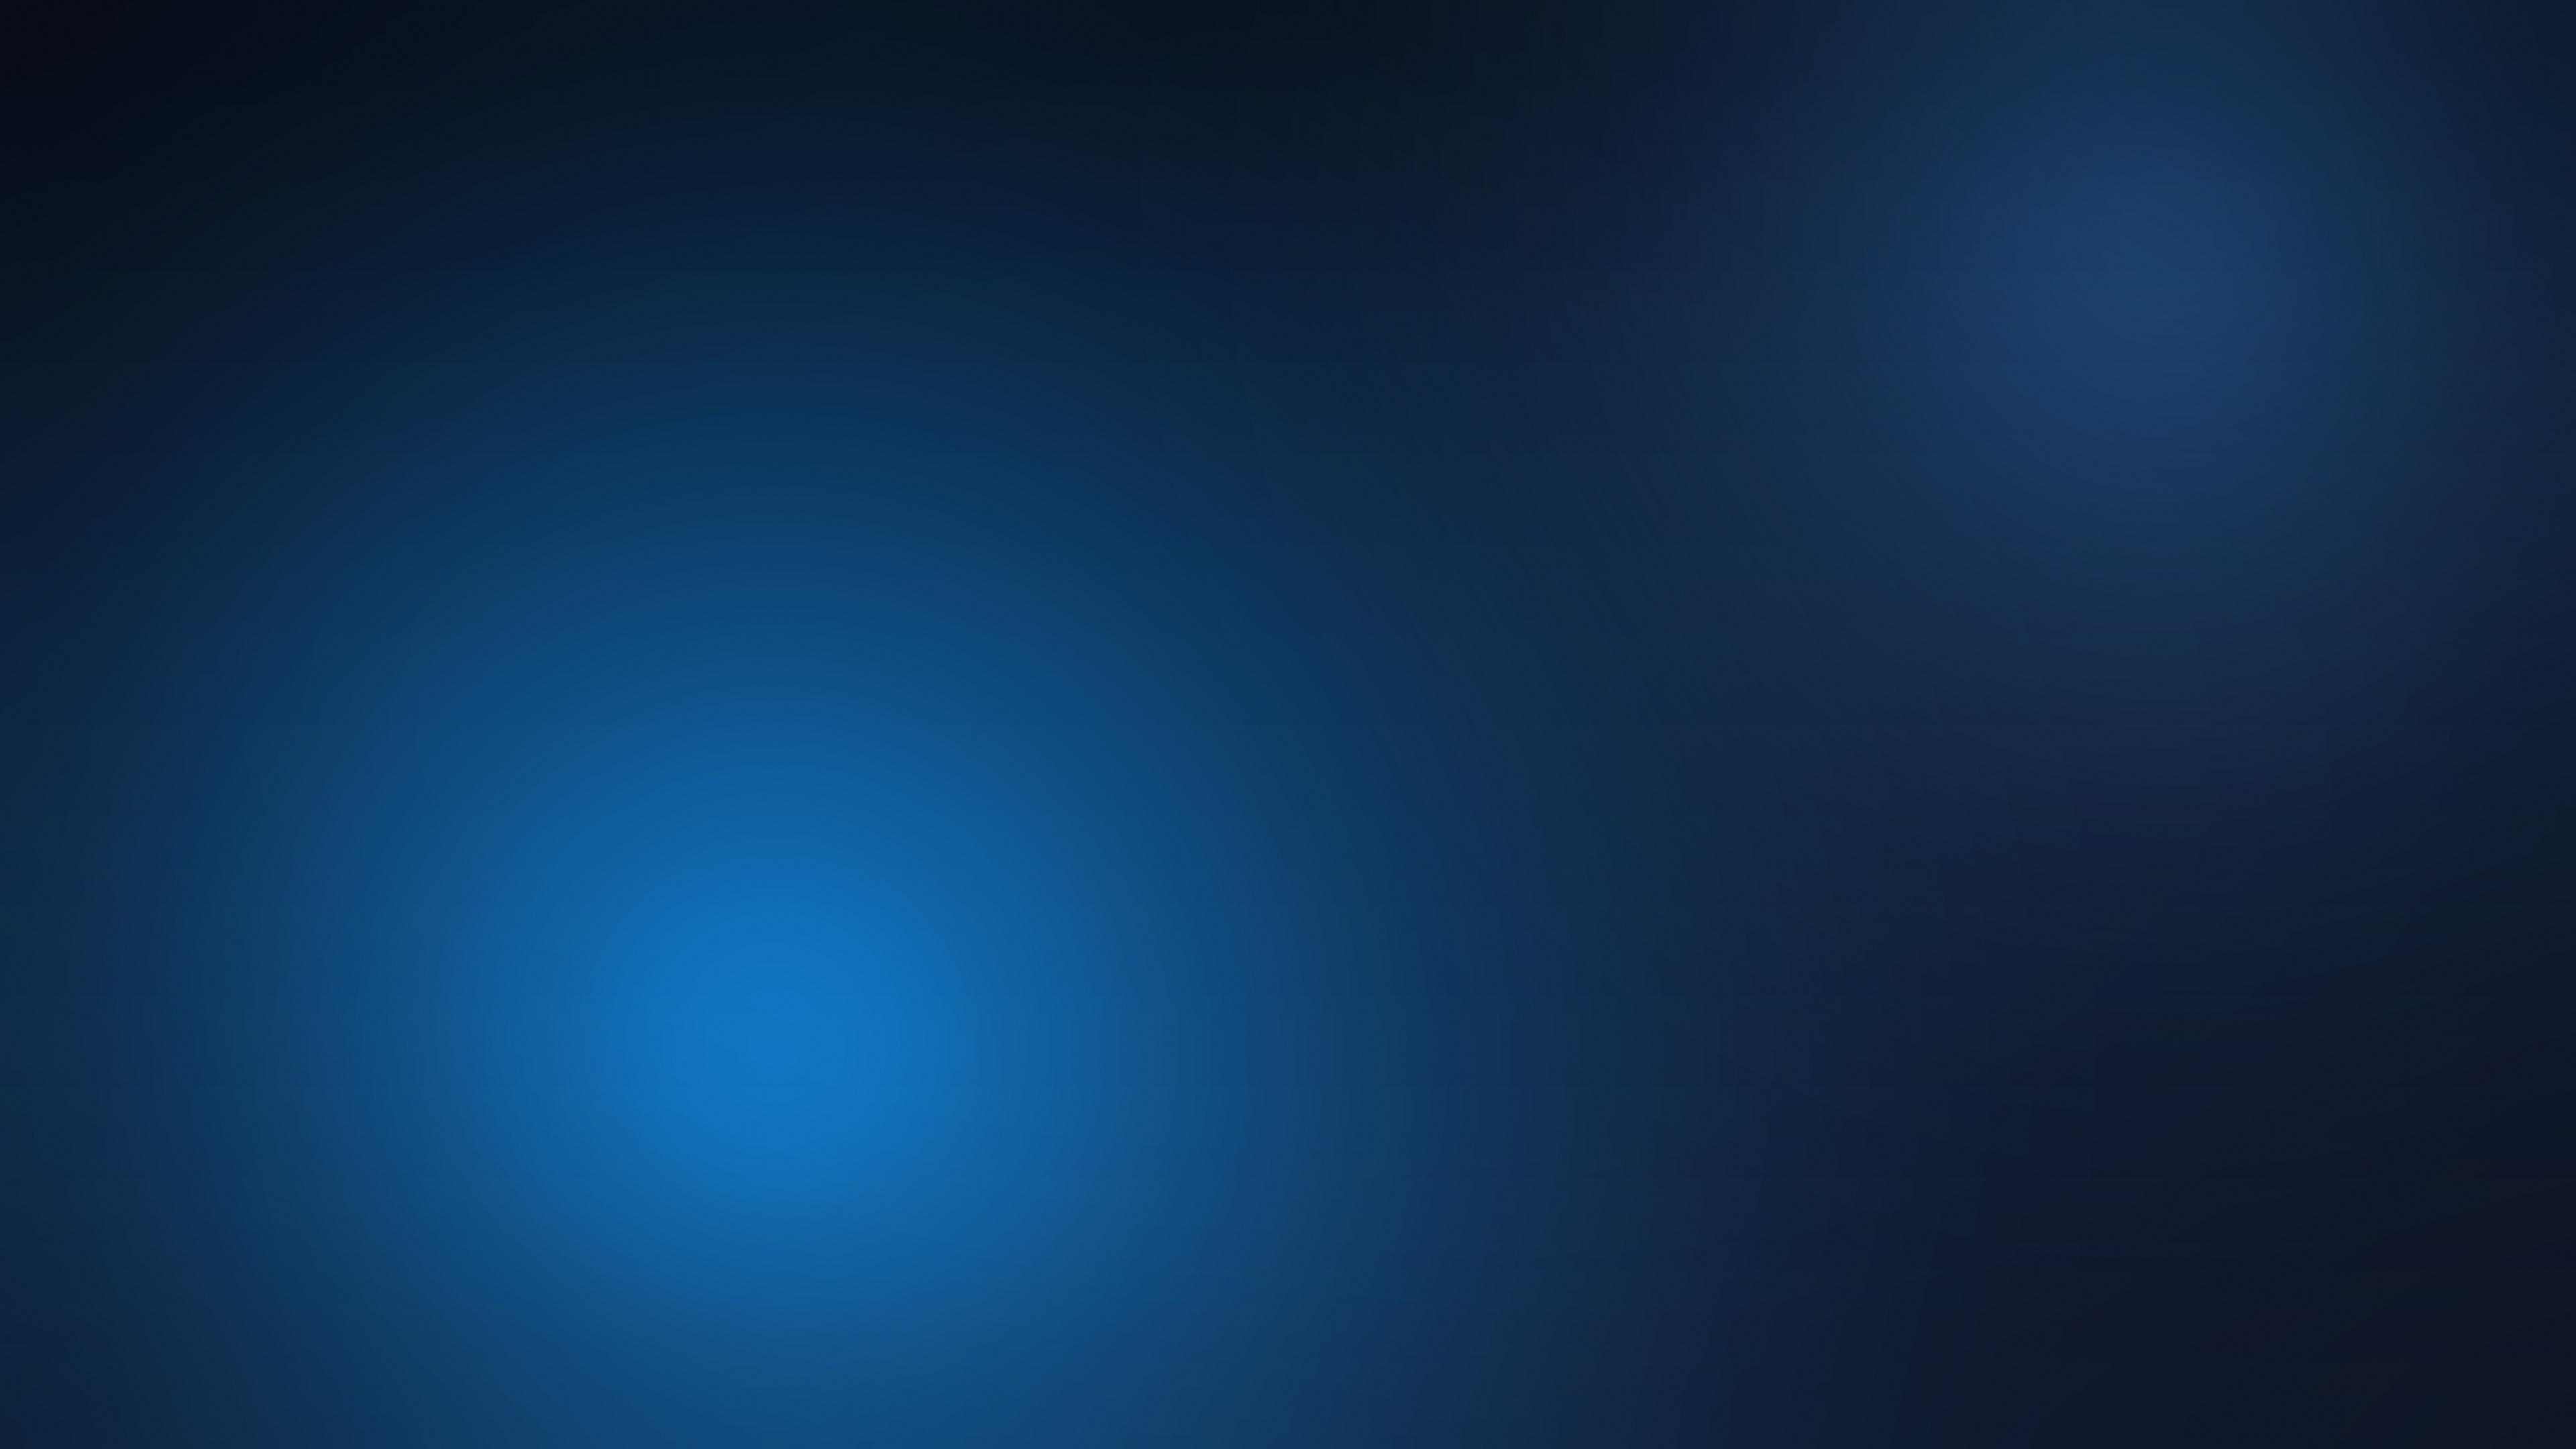
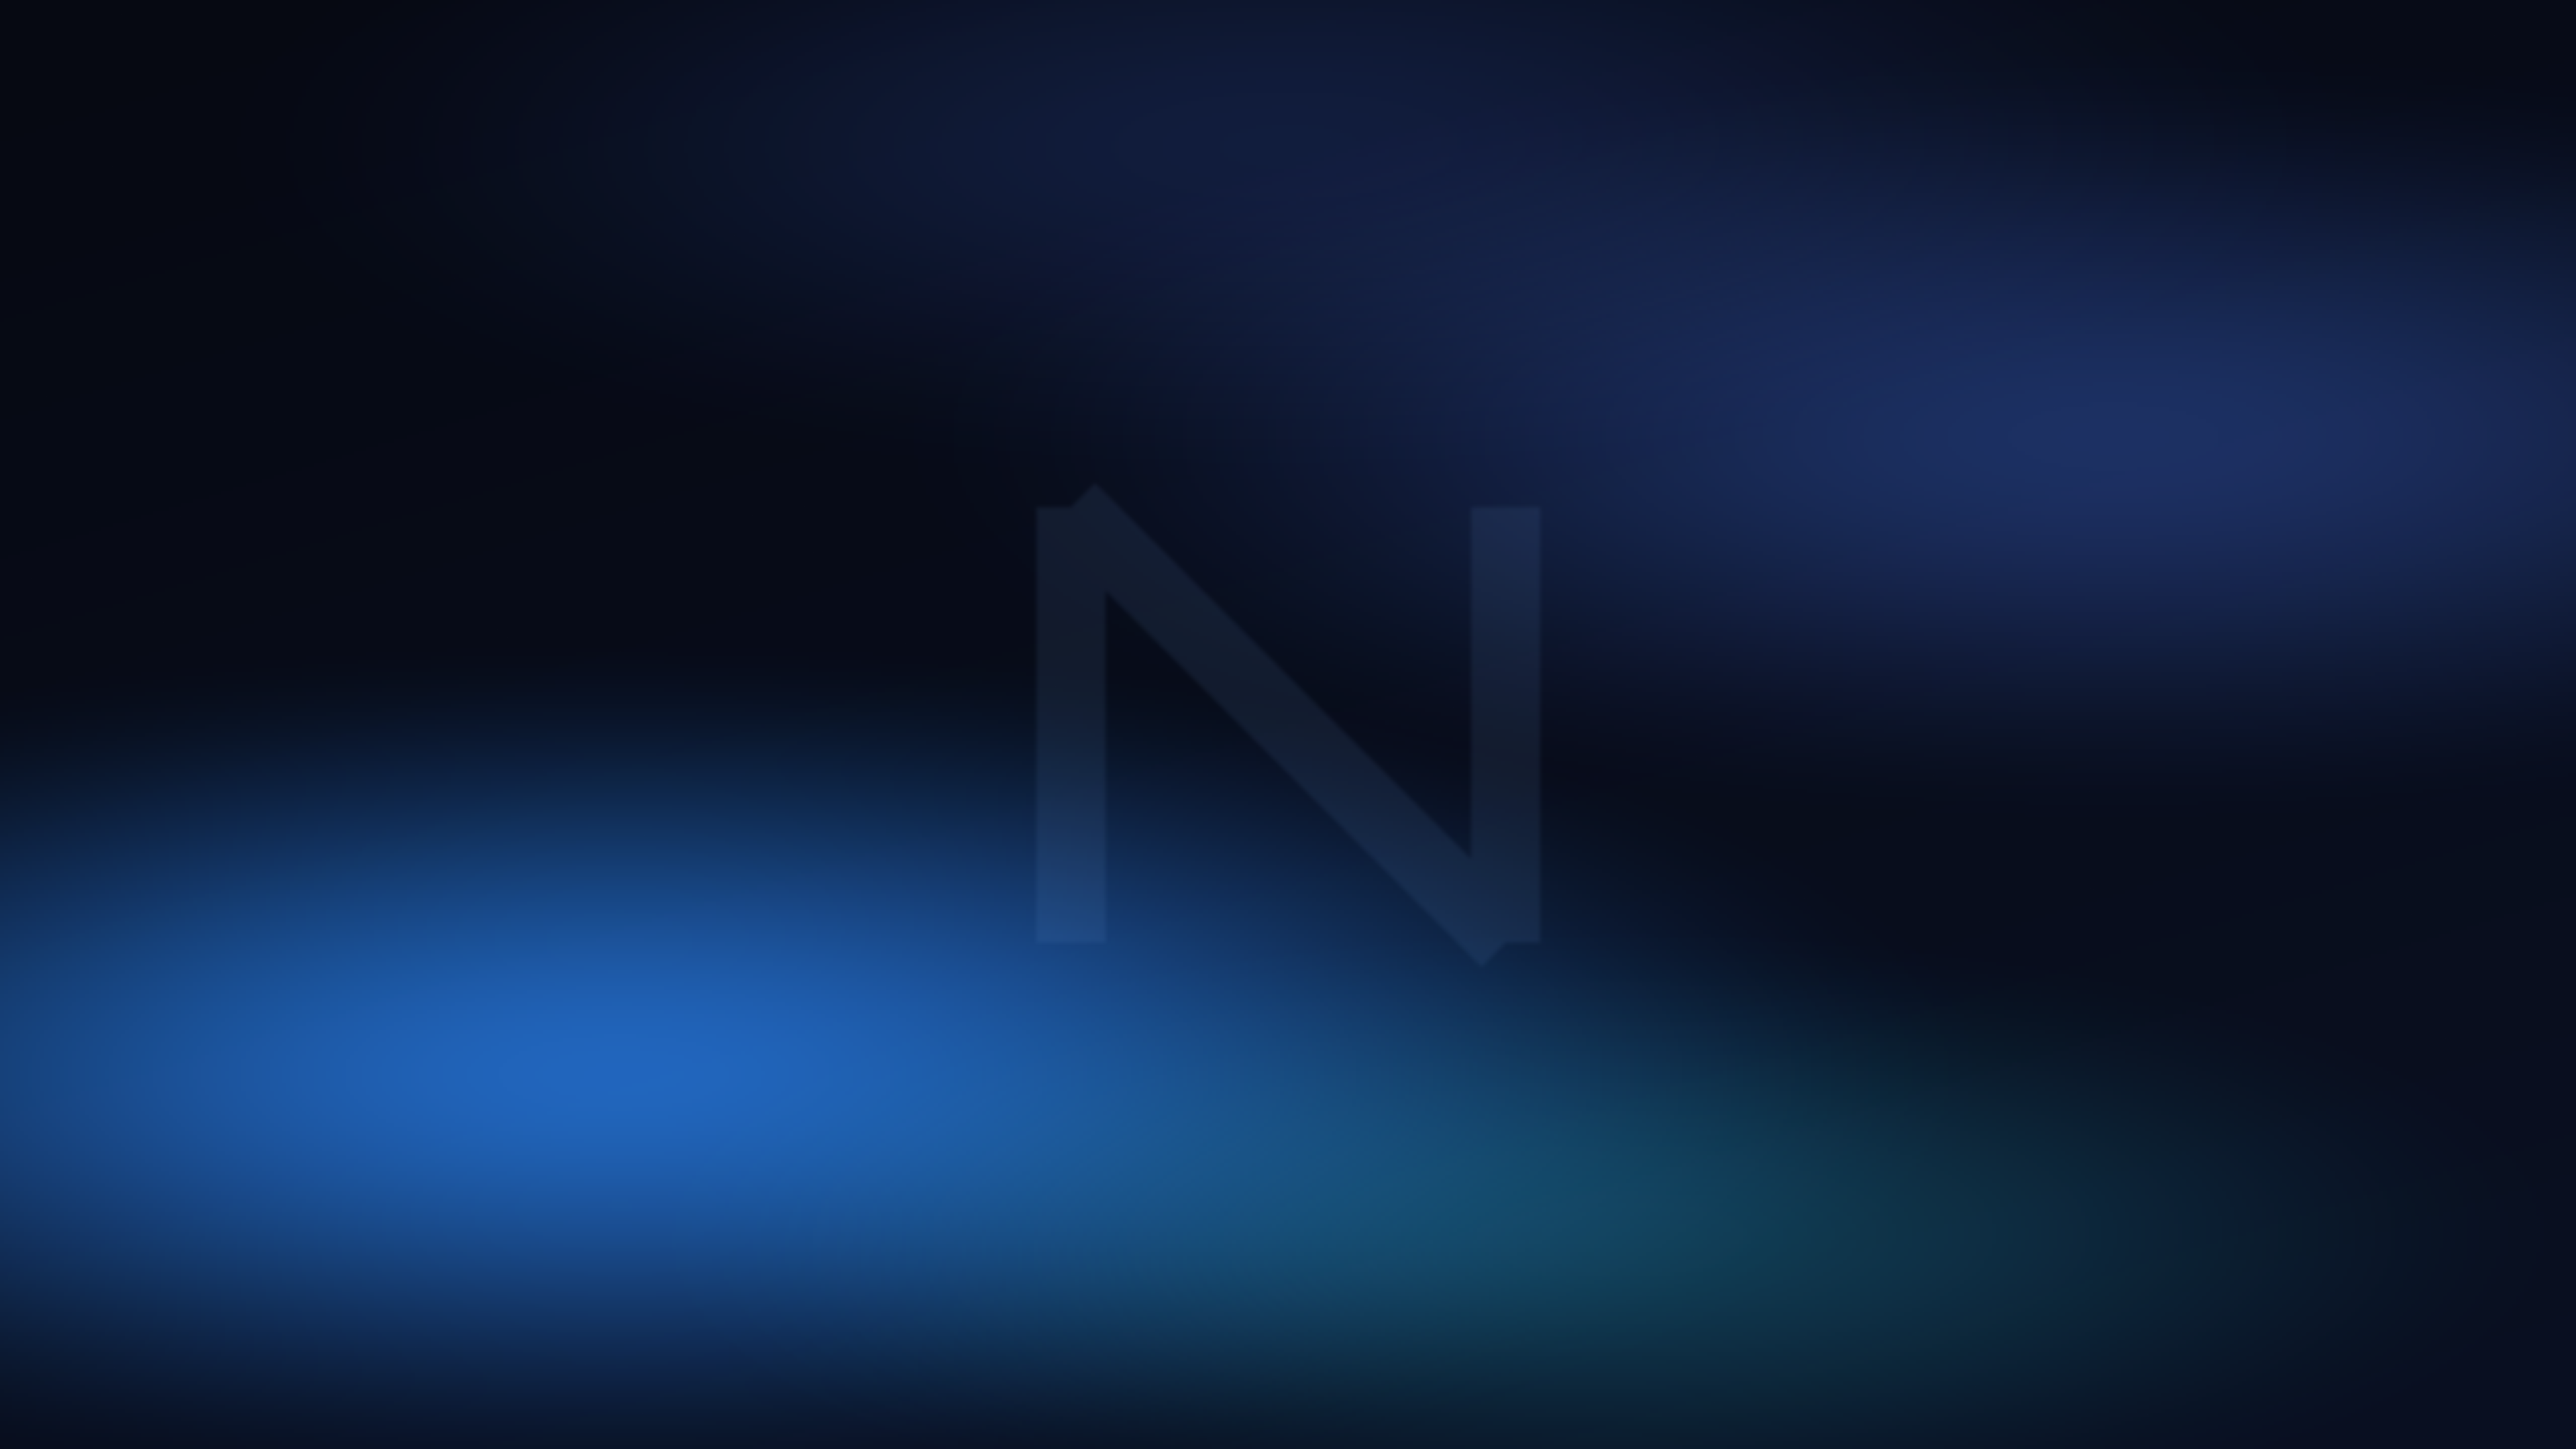
fix(live): restore liveuser creation (broken by upstream sandboxing merge) + new wallpaper
The upstream/main merge (bc64daa) re-added strict systemd sandboxing to
neos-liveuser-setup.service (ProtectSystem=strict, ProtectHome=yes,
NoNewPrivileges). That unit's whole job is account creation: `useradd -m`
needs lock files in /etc and must create /home/liveuser, and `sudo -u`
needs new privileges. The sandbox made those fail, the script died on
`set -e`, liveuser was never created, and SDDM dropped to a manual greeter
with no user / no autologin (defaulting to Wayland).

- neos-liveuser-setup.service: remove sandboxing (restores fork's known-good
  state), document why it must not be re-added.
- neos-vm-graphics.service: add ReadWritePaths=/etc so its /etc/environment
  write isn't blocked by ProtectSystem=strict.
- verify_service_hardening.sh: exempt the account-setup unit instead of
  forcing incompatible hardening on it.
- wallpaper: replace the muddy single-blob gradient with a cleaner navy
  mesh-gradient (brand-blue + indigo + teal, vignette, subtle "N" monogram);
  add reproducible generator tools/gen-wallpaper.py.

diff --git a/tools/gen-wallpaper.py b/tools/gen-wallpaper.py
@@ -1,0 +1,95 @@
+#!/usr/bin/env python3
+"""Generate the NeOS desktop wallpaper.
+
+Produces a clean, modern dark-blue "mesh gradient" wallpaper that matches the
+NeOS brand mark (deep navy field with a brand-blue glow and a subtle "N"
+monogram). Rendered small for smooth gradients then upscaled, with a light
+grain pass to avoid banding on flat panels.
+
+Usage: tools/gen-wallpaper.py [output.png]
+"""
+import sys
+import math
+import random
+from PIL import Image, ImageDraw, ImageFilter
+
+OUT = sys.argv[1] if len(sys.argv) > 1 else \
+    "profile/airootfs/usr/share/backgrounds/neos-wallpaper.png"
+
+W, H = 3840, 2160
+SW, SH = 640, 360  # render gradients small, upscale for perfect smoothness
+
+# Brand palette (deep navy base, brand blue + indigo/cyan accents)
+BASE_TOP = (6, 9, 18)
+BASE_BOTTOM = (10, 16, 34)
+BLOBS = [
+    # (cx, cy as fractions, radius fraction, color, strength)
+    (0.24, 0.74, 0.55, (31, 111, 214), 0.85),   # brand blue, lower-left
+    (0.82, 0.30, 0.50, (40, 70, 150), 0.55),    # indigo, upper-right
+    (0.62, 0.85, 0.40, (22, 140, 170), 0.35),   # subtle cyan, bottom
+    (0.50, 0.10, 0.45, (30, 50, 110), 0.40),    # cool top fill
+]
+
+
+def lerp(a, b, t):
+    return tuple(int(a[i] + (b[i] - a[i]) * t) for i in range(3))
+
+
+def screen(base, add, k):
+    """Screen-blend `add` onto `base` scaled by k (0..1)."""
+    return tuple(
+        int(255 - (255 - base[i]) * (255 - add[i] * k) / 255)
+        for i in range(3)
+    )
+
+
+# --- base diagonal gradient + screen-blended blobs (small res) ---
+small = Image.new("RGB", (SW, SH))
+px = small.load()
+for y in range(SH):
+    for x in range(SW):
+        t = (x / SW * 0.35 + y / SH * 0.65)
+        c = lerp(BASE_TOP, BASE_BOTTOM, t)
+        for bx, by, br, col, strength in BLOBS:
+            dx = (x / SW - bx)
+            dy = (y / SH - by) * (SW / SH)  # keep blobs circular
+            d = math.sqrt(dx * dx + dy * dy)
+            f = max(0.0, 1.0 - d / br)
+            f = f * f * (3 - 2 * f)  # smoothstep falloff
+            if f > 0:
+                c = screen(c, col, f * strength)
+        px[x, y] = c
+
+img = small.resize((W, H), Image.BICUBIC).filter(ImageFilter.GaussianBlur(2))
+
+# --- subtle "N" monogram watermark, centered, very low opacity ---
+mono = Image.new("L", (W, H), 0)
+md = ImageDraw.Draw(mono)
+cx, cy, s = W * 0.5, H * 0.5, H * 0.30
+lw = int(s * 0.16)
+# Three strokes of an "N": left vertical, diagonal, right vertical
+md.line([(cx - s * 0.5, cy + s * 0.5), (cx - s * 0.5, cy - s * 0.5)], fill=70, width=lw)
+md.line([(cx - s * 0.5, cy - s * 0.5), (cx + s * 0.5, cy + s * 0.5)], fill=70, width=lw)
+md.line([(cx + s * 0.5, cy - s * 0.5), (cx + s * 0.5, cy + s * 0.5)], fill=70, width=lw)
+mono = mono.filter(ImageFilter.GaussianBlur(3))
+glow = Image.new("RGB", (W, H), (120, 170, 235))
+img = Image.composite(glow, img, mono.point(lambda v: int(v * 0.35)))
+
+# --- vignette to keep edges calm ---
+vig = Image.new("L", (SW, SH), 0)
+vd = ImageDraw.Draw(vig)
+vd.ellipse([-SW * 0.25, -SH * 0.25, SW * 1.25, SH * 1.25], fill=255)
+vig = vig.resize((W, H), Image.BICUBIC).filter(ImageFilter.GaussianBlur(120))
+dark = Image.new("RGB", (W, H), (3, 5, 11))
+img = Image.composite(img, dark, vig)
+
+# --- fine grain to kill banding ---
+random.seed(7)
+grain = Image.effect_noise((W, H), 8).convert("L")
+img = Image.composite(
+    Image.blend(img, Image.new("RGB", (W, H), (255, 255, 255)), 0.02),
+    img, grain.point(lambda v: int(abs(v - 128)))
+)
+
+img.save(OUT, "PNG", optimize=True)
+print(f"wrote {OUT} ({W}x{H})")